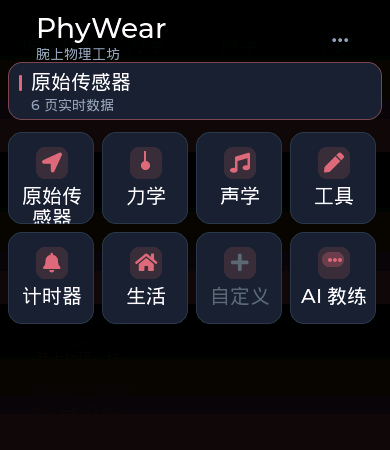
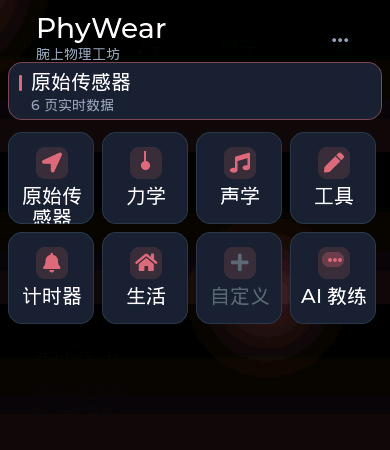
fix(ui): S3c 光斑可见 —— 去掉 move_background（会压到不透明底晕之下），改为紧跟底晕创建；截图 sha256 已变化确认真实生效

Changed region(s): [[0.5846, 0.5289, 0.8, 0.7778], [0.0, 0.0, 0.0615, 0.0622]]

diff --git a/app/phywear/phywear_ui.c b/app/phywear/phywear_ui.c
@@ -1306,6 +1306,28 @@ void pw_ui_root(void)
 
   scr = pw_scr_new();
 
+  /* 光斑（v8 定稿 §7）：96×96 A8 遮罩 + recolor 主题色。
+   * 紧跟底晕之后创建 → 天然位于"底晕之上、所有内容之下"（不要用 move_background，
+   * 那会把它压到不透明底晕下面，实测看不见）。 */
+
+  g_glow_a = lv_image_create(scr);
+  lv_image_set_src(g_glow_a, &pw_glow_dsc);
+  lv_obj_set_style_image_recolor(g_glow_a, pw_theme_accent(), 0);
+  lv_obj_set_style_image_recolor_opa(g_glow_a, LV_OPA_COVER, 0);
+  lv_obj_set_style_image_opa(g_glow_a, LV_OPA_50, 0);
+  lv_image_set_scale(g_glow_a, 256 * 4);
+  lv_obj_set_pos(g_glow_a, -120, -70);
+  pw_deco(g_glow_a);
+
+  g_glow_b = lv_image_create(scr);
+  lv_image_set_src(g_glow_b, &pw_glow_dsc);
+  lv_obj_set_style_image_recolor(g_glow_b, pw_theme_accent(), 0);
+  lv_obj_set_style_image_recolor_opa(g_glow_b, LV_OPA_COVER, 0);
+  lv_obj_set_style_image_opa(g_glow_b, LV_OPA_30, 0);
+  lv_image_set_scale(g_glow_b, 256 * 3);
+  lv_obj_set_pos(g_glow_b, 220, 250);
+  pw_deco(g_glow_b);
+
   /* 标题行（左边缘圆弧屏切角：文本需右移进安全区） */
 
   lab = pw_label_new(scr, PW_STR(UI_PHYWEAR), PW_FNT_XL, PW_COL_TEXT);
@@ -1357,30 +1379,6 @@ void pw_ui_root(void)
     lv_obj_set_pos(g_focus_info, 22, 34);
   }
 
-  /* 光斑（v8 定稿 §7）：96×96 A8 遮罩 + recolor 主题色；两张、跟随聚焦模块漂移。
-   * 创建后用 move_background() 压到最底层（在底晕之上、所有内容之下）。 */
-
-  {
-    g_glow_a = lv_image_create(scr);
-    lv_image_set_src(g_glow_a, &pw_glow_dsc);
-    lv_obj_set_style_image_recolor(g_glow_a, pw_theme_accent(), 0);
-    lv_obj_set_style_image_recolor_opa(g_glow_a, LV_OPA_COVER, 0);
-    lv_obj_set_style_image_opa(g_glow_a, LV_OPA_40, 0);
-    lv_image_set_scale(g_glow_a, 256 * 4);
-    lv_obj_set_pos(g_glow_a, -120, -70);
-    lv_obj_move_background(g_glow_a);
-    pw_deco(g_glow_a);
-
-    g_glow_b = lv_image_create(scr);
-    lv_image_set_src(g_glow_b, &pw_glow_dsc);
-    lv_obj_set_style_image_recolor(g_glow_b, pw_theme_accent(), 0);
-    lv_obj_set_style_image_recolor_opa(g_glow_b, LV_OPA_COVER, 0);
-    lv_obj_set_style_image_opa(g_glow_b, LV_OPA_20, 0);
-    lv_image_set_scale(g_glow_b, 256 * 3);
-    lv_obj_set_pos(g_glow_b, 220, 250);
-    lv_obj_move_background(g_glow_b);
-    pw_deco(g_glow_b);
-  }
 
   /* 板块宫格 4×2 */
 

diff --git a/docs/evidence/ui-v9-20260917/README.md b/docs/evidence/ui-v9-20260917/README.md
@@ -38,3 +38,4 @@
 | 帧率 | 见下（本轮实测） |
 | 截图 | `04_home_s3c_glow.png` |
 | 行为 | 按住不同模块 → 两张光斑随聚焦列漂移（只改位置，无每帧开销） |
+| ⚠ 踩坑并修 | 首版用 `lv_obj_move_background()` 把光斑压到了**两层不透明底晕之下** → 截图与上一版**逐字节相同（同 sha256）**，即"光斑根本没画出来"。改为**紧跟底晕之后创建**（天然位于底晕之上、内容之下）后可见。教训：**判断"有没有生效"要对比 sha256，不能只看"没报错"** |
